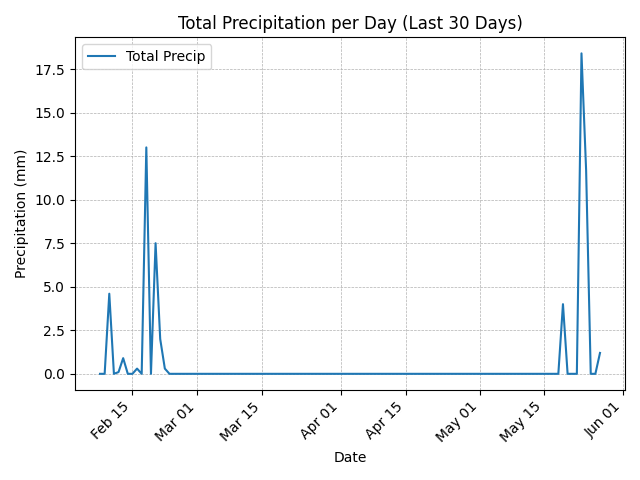
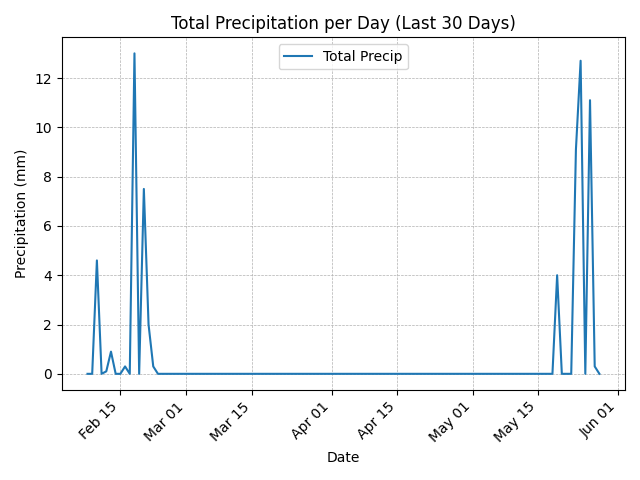
Daily update ETL outputs

diff --git a/README.md b/README.md
@@ -4,12 +4,12 @@ Automated end-to-end ETL pipeline that pulls daily-updating **weather + air qual
 
 ## Latest KPI snapshot
 
-- Date: **2026-05-27**
-- Avg Temp (°C): **19.29**
-- Max Temp (°C): **23.9**
-- Total Precip (mm): **1.2**
-- Avg Wind (km/h): **7.16**
-- Max Wind (km/h): **12.9**
+- Date: **2026-05-28**
+- Avg Temp (°C): **17.33**
+- Max Temp (°C): **22.9**
+- Total Precip (mm): **0.0**
+- Avg Wind (km/h): **9.17**
+- Max Wind (km/h): **14.3**
 - PM2.5 Avg (µg/m³): **NA**
 - PM2.5 Peak (µg/m³): **NA**
 
